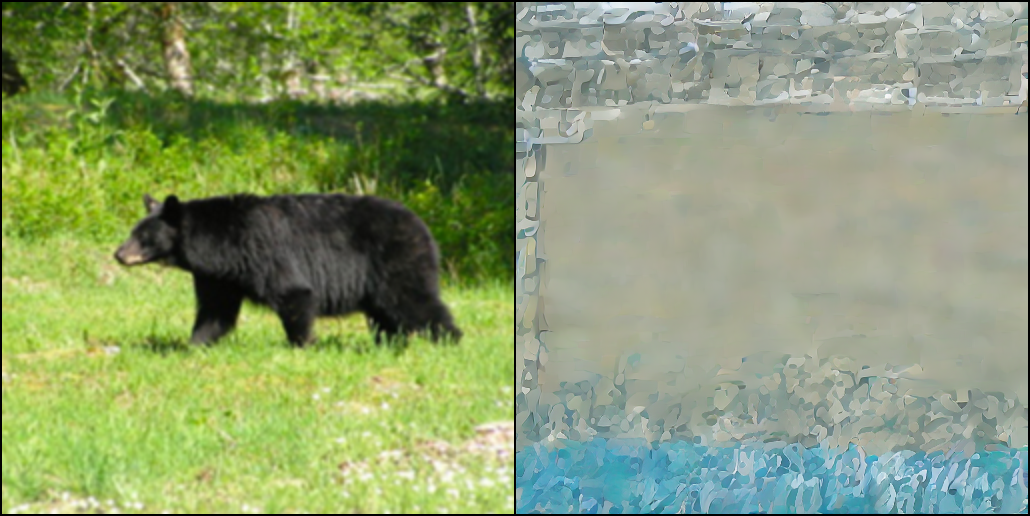
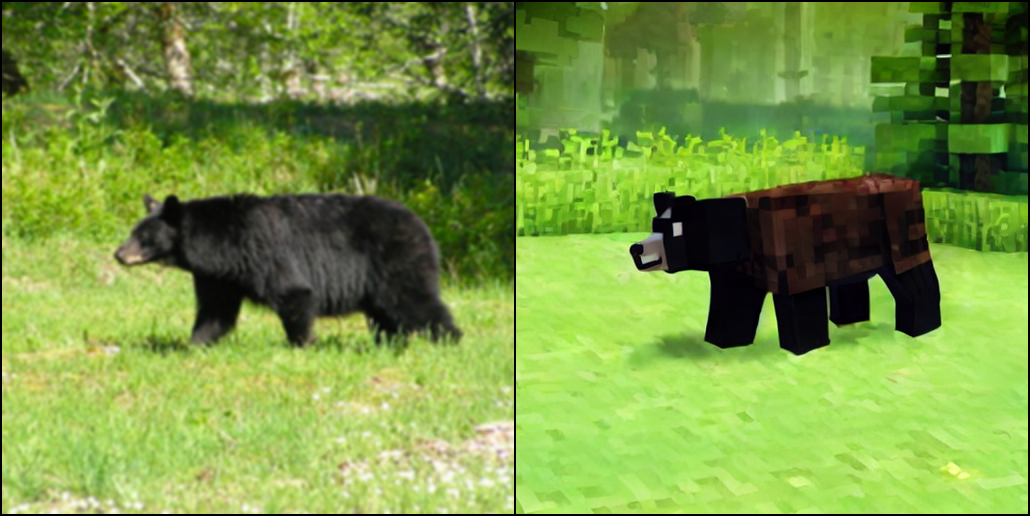
working two prompt cross_attention setup

diff --git a/model/lib/stable_diffusion/ldm/modules/attention.py b/model/lib/stable_diffusion/ldm/modules/attention.py
@@ -187,8 +187,8 @@ class CrossAttention(nn.Module):
             # Process both contexts
             k1 = self.to_k(context1)
             v1 = self.to_v(context1)
-            k2 = self.to_k(context2)
-            v2 = self.to_v(context2)
+            #k2 = self.to_k(context2)
+            #v2 = self.to_v(context2)
             
             b, n, _ = x.shape
             height = int(math.sqrt(n))
@@ -202,33 +202,34 @@ class CrossAttention(nn.Module):
             print(f'Number of heads: {h}')
 
             q, k1, v1 = map(lambda t: rearrange(t, 'b n (h d) -> (b h) n d', h=h), (q, k1, v1))
-            _, k2, v2 = map(lambda t: rearrange(t, 'b n (h d) -> (b h) n d', h=h), (q, k2, v2))
+            #_, k2, v2 = map(lambda t: rearrange(t, 'b n (h d) -> (b h) n d', h=h), (q, k2, v2))
             
             print(f'After rearrange - q shape: {q.shape}')
             print(f'After rearrange - k1 shape: {k1.shape}')
 
             sim1 = einsum('b i d, b j d -> b i j', q, k1) * self.scale
-            sim2 = einsum('b i d, b j d -> b i j', q, k2) * self.scale
+            #sim2 = einsum('b i d, b j d -> b i j', q, k2) * self.scale
             
             # Modify attention scores before softmax
-            sim1 = sim1 * (1 - y_weights)  # Top patches attend more to first prompt
-            sim2 = sim2 * y_weights       # Bottom patches attend more to second prompt
+            #sim1 = sim1 * (1 - y_weights)  # Top patches attend more to first prompt
+            #sim2 = sim2 * y_weights       # Bottom patches attend more to second prompt
 
             if exists(mask):
                 mask = rearrange(mask, 'b ... -> b (...)')
                 max_neg_value = -torch.finfo(sim1.dtype).max
                 mask = repeat(mask, 'b j -> (b h) () j', h=h)
                 sim1.masked_fill_(~mask, max_neg_value)
-                sim2.masked_fill_(~mask, max_neg_value)
+                #sim2.masked_fill_(~mask, max_neg_value)
 
             # attention, what we cannot get enough of
             attn1 = sim1.softmax(dim=-1)
-            attn2 = sim2.softmax(dim=-1)
+            #attn2 = sim2.softmax(dim=-1)
 
             out1 = einsum('b i j, b j d -> b i d', attn1, v1)
-            out2 = einsum('b i j, b j d -> b i d', attn2, v2)
+            #out2 = einsum('b i j, b j d -> b i d', attn2, v2)
 
-            out = out1 + out2
+            out = out1
+            #out = out1 + out2
             out = rearrange(out, '(b h) n d -> b n (h d)', h=h)
             
         else :
